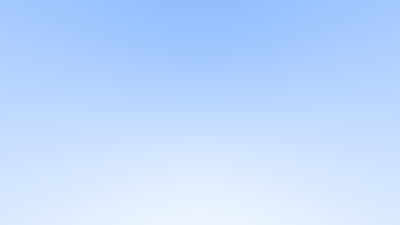
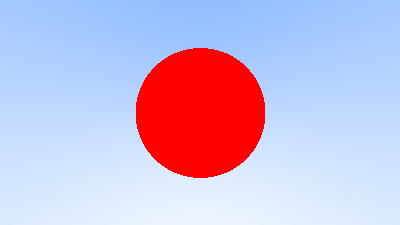
Task 4.1: We have some balls

Changed region(s): [[0.33, 0.1867, 0.66, 0.8089]]

diff --git a/src/object.rs b/src/object.rs
@@ -1,0 +1,23 @@
+use derive_more::Constructor;
+
+use crate::vector::Point;
+use crate::ray::Ray;
+
+
+#[derive(Debug, Constructor)]
+pub struct Sphere {
+    pub centre: Point,
+    pub radius: f64,
+}
+
+impl Sphere {
+    pub fn hit(&self, ray: &Ray) -> bool {
+        let a = ray.dir.dot(ray.dir);
+        let diff = ray.origin - self.centre;
+        let b = 2.0 * ray.dir.dot(diff);
+        let c = diff.dot(diff) - self.radius * self.radius;
+
+        let det = b*b - 4.0 * a * c;
+        det >= 0.0
+    }
+}

diff --git a/src/main.rs b/src/main.rs
@@ -1,6 +1,6 @@
 mod vector;
 mod ray;
-mod util;
+mod object;
 
 use image::{RgbImage};
 use lerp::Lerp;
@@ -25,6 +25,10 @@ impl Viewport {
 }
 
 fn colour(ray: &Ray) -> Colour {
+    let sphere = object::Sphere::new(v!(0, 0, -1), 0.5);
+    if sphere.hit(ray) {
+        return v!(1.0, 0, 0);
+    }
     v!(1).lerp(v!(0.5, 0.7, 1.0), (ray.dir.norm().y+1.0)/2.0)
 }
 
